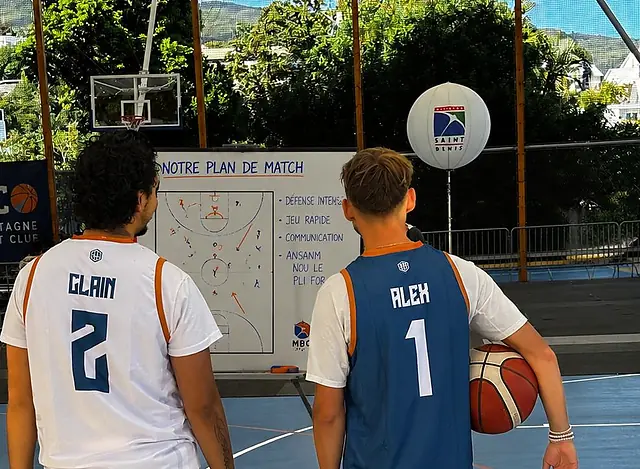
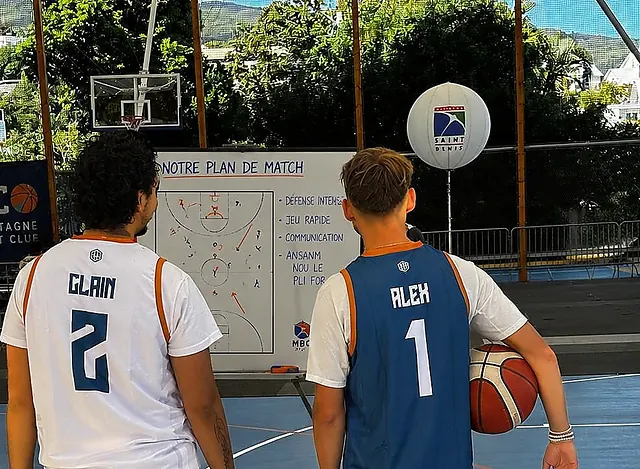
ert

diff --git a/style.css b/style.css
@@ -1803,13 +1803,18 @@ a:focus-visible,button:focus-visible,input:focus-visible,select:focus-visible,te
    ne soit pas agrandie sur les grands écrans. */
 .ess__photo{position:absolute;top:auto;right:0;bottom:0;margin:0;z-index:0;
   width:min(64%,900px);height:min(100%,820px);pointer-events:none;
-  -webkit-mask-image:linear-gradient(90deg,transparent 0%,rgba(0,0,0,.46) 1.5%,
-    rgba(0,0,0,.86) 4%,rgba(0,0,0,.97) 6.5%,#000 9%),
-    linear-gradient(180deg,transparent 0%,rgba(0,0,0,.55) 8%,#000 18%);
+  /* Fondu en courbe smoothstep, 13 paliers.
+     L'ancien fondu vertical n'avait que 3 paliers (0 -> .55 a 8% -> 1 a 18%) :
+     la pente changeait brutalement a 8%, et ce coude se lisait comme une
+     bande horizontale juste au-dessus du joueur de gauche. Une smoothstep
+     a pente nulle aux deux extremites n'a aucun coude, donc aucune bande.
+     Le fondu vertical est aussi allonge (18% -> 24%) et s'acheve avant les
+     cheveux du joueur, qui commencent a 28,7% du cadre. */
+  -webkit-mask-image:linear-gradient(90deg,transparent 0%,rgba(0,0,0,0.02) 0.83%,rgba(0,0,0,0.074) 1.67%,rgba(0,0,0,0.156) 2.5%,rgba(0,0,0,0.259) 3.33%,rgba(0,0,0,0.376) 4.17%,rgba(0,0,0,0.5) 5%,rgba(0,0,0,0.624) 5.83%,rgba(0,0,0,0.741) 6.67%,rgba(0,0,0,0.844) 7.5%,rgba(0,0,0,0.926) 8.33%,rgba(0,0,0,0.98) 9.17%,#000 10%),
+    linear-gradient(180deg,transparent 0%,rgba(0,0,0,0.02) 2%,rgba(0,0,0,0.074) 4%,rgba(0,0,0,0.156) 6%,rgba(0,0,0,0.259) 8%,rgba(0,0,0,0.376) 10%,rgba(0,0,0,0.5) 12%,rgba(0,0,0,0.624) 14%,rgba(0,0,0,0.741) 16%,rgba(0,0,0,0.844) 18%,rgba(0,0,0,0.926) 20%,rgba(0,0,0,0.98) 22%,#000 24%);
   -webkit-mask-composite:source-in;mask-composite:intersect;
-  mask-image:linear-gradient(90deg,transparent 0%,rgba(0,0,0,.46) 1.5%,
-    rgba(0,0,0,.86) 4%,rgba(0,0,0,.97) 6.5%,#000 9%),
-    linear-gradient(180deg,transparent 0%,rgba(0,0,0,.55) 8%,#000 18%)}
+  mask-image:linear-gradient(90deg,transparent 0%,rgba(0,0,0,0.02) 0.83%,rgba(0,0,0,0.074) 1.67%,rgba(0,0,0,0.156) 2.5%,rgba(0,0,0,0.259) 3.33%,rgba(0,0,0,0.376) 4.17%,rgba(0,0,0,0.5) 5%,rgba(0,0,0,0.624) 5.83%,rgba(0,0,0,0.741) 6.67%,rgba(0,0,0,0.844) 7.5%,rgba(0,0,0,0.926) 8.33%,rgba(0,0,0,0.98) 9.17%,#000 10%),
+    linear-gradient(180deg,transparent 0%,rgba(0,0,0,0.02) 2%,rgba(0,0,0,0.074) 4%,rgba(0,0,0,0.156) 6%,rgba(0,0,0,0.259) 8%,rgba(0,0,0,0.376) 10%,rgba(0,0,0,0.5) 12%,rgba(0,0,0,0.624) 14%,rgba(0,0,0,0.741) 16%,rgba(0,0,0,0.844) 18%,rgba(0,0,0,0.926) 20%,rgba(0,0,0,0.98) 22%,#000 24%)}
 .ess__photo img{width:100%;height:100%;object-fit:cover;
   object-position:40% 30%;filter:saturate(.96) contrast(1.02)}
 /* La photo s'efface vers le texte et sous les pieds. Pas de flou, pas de

diff --git a/index.html b/index.html
@@ -57,7 +57,7 @@
 <link rel="preload" as="image" href="assets/images/joueur-dribble-900.webp" type="image/webp" fetchpriority="high"
       imagesrcset="assets/images/joueur-dribble-640.webp 640w, assets/images/joueur-dribble-900.webp 900w, assets/images/joueur-dribble.webp 1280w"
       imagesizes="(max-width:900px) 104vw, 46vw">
-<link rel="stylesheet" href="style.css?v=e13c63d4">
+<link rel="stylesheet" href="style.css?v=9abc365c">
 <noscript><style>.reveal,.reveal--l,.reveal--r,.reveal--scale,.hero .reveal-fade{opacity:1!important;transform:none!important}</style></noscript>
 
 <script type="application/ld+json">
@@ -474,7 +474,7 @@
 <section class="section ess" id="essentiel" aria-labelledby="essentielTitle">
   <figure class="ess__photo">
     <img src="assets/images/mbc-duo-plan-de-match.webp"
-         srcset="assets/images/mbc-duo-plan-de-match-640.webp 640w, assets/images/mbc-duo-plan-de-match.webp 987w"
+         srcset="assets/images/mbc-duo-plan-de-match-640.webp 640w, assets/images/mbc-duo-plan-de-match.webp 987w, assets/images/mbc-duo-plan-de-match-1974.webp 1974w"
          sizes="(min-width:900px) 62vw, 100vw"
          alt="Deux joueurs du MBC de dos sur le plateau couvert, maillots floqués GLAIN 2 et ALEX 1, un ballon sous le bras, face au tableau « Notre plan de match » : défense intense, jeu rapide, communication, ansanm nou lé pli for."
          width="987" height="724" loading="lazy" decoding="async"

diff --git a/ecole-de-basket-saint-denis/index.html b/ecole-de-basket-saint-denis/index.html
@@ -39,7 +39,7 @@
 <link rel="preconnect" href="https://fonts.gstatic.com" crossorigin>
 <link rel="stylesheet" href="https://fonts.googleapis.com/css2?family=Anton&family=Barlow+Condensed:wght@500;600;700&family=Barlow:wght@400;600;700&display=swap" media="print" onload="this.media='all'">
 <noscript><link rel="stylesheet" href="https://fonts.googleapis.com/css2?family=Anton&family=Barlow+Condensed:wght@500;600;700&family=Barlow:wght@400;600;700&display=swap"></noscript>
-<link rel="stylesheet" href="/style.css?v=e13c63d4">
+<link rel="stylesheet" href="/style.css?v=9abc365c">
 
 <script type="application/ld+json">
 {"@context":"https://schema.org","@type":"WebPage","name":"École de basket à Saint-Denis (7-10 ans) — MBC La Montagne Basket Club","url":"https://mbc974.com/ecole-de-basket-saint-denis/","inLanguage":"fr","description":"L'école de basket du MBC pour les enfants de 7 à 10 ans à La Montagne, Saint-Denis de La Réunion : fondamentaux, créneau du samedi matin et inscription.","isPartOf":{"@type":"WebSite","@id":"https://mbc974.com/#website","name":"MBC La Montagne Basket Club","url":"https://mbc974.com/"},"about":{"@type":"SportsClub","@id":"https://mbc974.com/#club"}}

diff --git a/basket-adulte-loisirs-saint-denis/index.html b/basket-adulte-loisirs-saint-denis/index.html
@@ -35,7 +35,7 @@
 <link rel="preconnect" href="https://fonts.gstatic.com" crossorigin>
 <link rel="stylesheet" href="https://fonts.googleapis.com/css2?family=Anton&family=Barlow+Condensed:wght@500;600;700&family=Barlow:wght@400;600;700&display=swap" media="print" onload="this.media='all'">
 <noscript><link rel="stylesheet" href="https://fonts.googleapis.com/css2?family=Anton&family=Barlow+Condensed:wght@500;600;700&family=Barlow:wght@400;600;700&display=swap"></noscript>
-<link rel="stylesheet" href="/style.css?v=e13c63d4">
+<link rel="stylesheet" href="/style.css?v=9abc365c">
 <script type="application/ld+json">
 {"@context":"https://schema.org","@type":"WebPage","name":"Basket adulte et loisirs à Saint-Denis — MBC La Montagne Basket Club","url":"https://mbc974.com/basket-adulte-loisirs-saint-denis/","inLanguage":"fr","description":"Le basket pour les adultes à Saint-Denis de La Réunion : loisir sans championnat ou compétition seniors, au MBC La Montagne Basket Club.","isPartOf":{"@type":"WebSite","name":"MBC La Montagne Basket Club","url":"https://mbc974.com/"},"about":{"@type":"SportsClub","@id":"https://mbc974.com/#club"}}
 </script>

diff --git a/baby-basket-la-reunion/index.html b/baby-basket-la-reunion/index.html
@@ -39,7 +39,7 @@
 <link rel="preconnect" href="https://fonts.gstatic.com" crossorigin>
 <link rel="stylesheet" href="https://fonts.googleapis.com/css2?family=Anton&family=Barlow+Condensed:wght@500;600;700&family=Barlow:wght@400;600;700&display=swap" media="print" onload="this.media='all'">
 <noscript><link rel="stylesheet" href="https://fonts.googleapis.com/css2?family=Anton&family=Barlow+Condensed:wght@500;600;700&family=Barlow:wght@400;600;700&display=swap"></noscript>
-<link rel="stylesheet" href="/style.css?v=e13c63d4">
+<link rel="stylesheet" href="/style.css?v=9abc365c">
 
 <script type="application/ld+json">
 {"@context":"https://schema.org","@type":"WebPage","name":"Baby Basket à La Montagne / La Réunion — MBC La Montagne Basket Club","url":"https://mbc974.com/baby-basket-la-reunion/","inLanguage":"fr","description":"Le Baby Basket du MBC pour les enfants de 3 à 6 ans à La Montagne, Saint-Denis de La Réunion : éveil par le jeu, créneau et inscription.","isPartOf":{"@type":"WebSite","name":"MBC La Montagne Basket Club","url":"https://mbc974.com/"},"about":{"@type":"SportsClub","@id":"https://mbc974.com/#club"}}

diff --git a/basket-enfant-saint-denis/index.html b/basket-enfant-saint-denis/index.html
@@ -39,7 +39,7 @@
 <link rel="preconnect" href="https://fonts.gstatic.com" crossorigin>
 <link rel="stylesheet" href="https://fonts.googleapis.com/css2?family=Anton&family=Barlow+Condensed:wght@500;600;700&family=Barlow:wght@400;600;700&display=swap" media="print" onload="this.media='all'">
 <noscript><link rel="stylesheet" href="https://fonts.googleapis.com/css2?family=Anton&family=Barlow+Condensed:wght@500;600;700&family=Barlow:wght@400;600;700&display=swap"></noscript>
-<link rel="stylesheet" href="/style.css?v=e13c63d4">
+<link rel="stylesheet" href="/style.css?v=9abc365c">
 
 <script type="application/ld+json">
 {"@context":"https://schema.org","@type":"WebPage","name":"Basket enfant à Saint-Denis (La Réunion) — MBC La Montagne Basket Club","url":"https://mbc974.com/basket-enfant-saint-denis/","inLanguage":"fr","description":"Le basket pour les enfants à Saint-Denis : âges, déroulé des séances, encadrement et inscription au MBC La Montagne Basket Club.","isPartOf":{"@type":"WebSite","name":"MBC La Montagne Basket Club","url":"https://mbc974.com/"},"about":{"@type":"SportsClub","@id":"https://mbc974.com/#club"}}

diff --git a/club-basket-la-montagne/index.html b/club-basket-la-montagne/index.html
@@ -39,7 +39,7 @@
 <link rel="preconnect" href="https://fonts.gstatic.com" crossorigin>
 <link rel="stylesheet" href="https://fonts.googleapis.com/css2?family=Anton&family=Barlow+Condensed:wght@500;600;700&family=Barlow:wght@400;600;700&display=swap" media="print" onload="this.media='all'">
 <noscript><link rel="stylesheet" href="https://fonts.googleapis.com/css2?family=Anton&family=Barlow+Condensed:wght@500;600;700&family=Barlow:wght@400;600;700&display=swap"></noscript>
-<link rel="stylesheet" href="/style.css?v=e13c63d4">
+<link rel="stylesheet" href="/style.css?v=9abc365c">
 
 <script type="application/ld+json">
 {"@context":"https://schema.org","@type":"WebPage","name":"Club de basket à La Montagne — MBC La Montagne Basket Club","url":"https://mbc974.com/club-basket-la-montagne/","inLanguage":"fr","description":"Présentation du club de basket de La Montagne, à Saint-Denis de La Réunion : catégories, créneaux, lieux et inscriptions 2026/2027.","isPartOf":{"@type":"WebSite","name":"MBC La Montagne Basket Club","url":"https://mbc974.com/"},"about":{"@type":"SportsClub","@id":"https://mbc974.com/#club"}}

diff --git a/sponsor-club-basket-reunion/index.html b/sponsor-club-basket-reunion/index.html
@@ -39,7 +39,7 @@
 <link rel="preconnect" href="https://fonts.gstatic.com" crossorigin>
 <link rel="stylesheet" href="https://fonts.googleapis.com/css2?family=Anton&family=Barlow+Condensed:wght@500;600;700&family=Barlow:wght@400;600;700&display=swap" media="print" onload="this.media='all'">
 <noscript><link rel="stylesheet" href="https://fonts.googleapis.com/css2?family=Anton&family=Barlow+Condensed:wght@500;600;700&family=Barlow:wght@400;600;700&display=swap"></noscript>
-<link rel="stylesheet" href="/style.css?v=e13c63d4">
+<link rel="stylesheet" href="/style.css?v=9abc365c">
 
 <script type="application/ld+json">
 {"@context":"https://schema.org","@type":"WebPage","name":"Sponsor d'un club de basket à La Réunion — MBC La Montagne Basket Club","url":"https://mbc974.com/sponsor-club-basket-reunion/","inLanguage":"fr","description":"Devenir sponsor ou partenaire du MBC La Montagne Basket Club à La Réunion : visibilité, formules et contact.","isPartOf":{"@type":"WebSite","name":"MBC La Montagne Basket Club","url":"https://mbc974.com/"},"about":{"@type":"SportsClub","@id":"https://mbc974.com/#club"}}

diff --git a/soutenir-le-club/index.html b/soutenir-le-club/index.html
@@ -35,7 +35,7 @@
 <link rel="preconnect" href="https://fonts.gstatic.com" crossorigin>
 <link rel="stylesheet" href="https://fonts.googleapis.com/css2?family=Anton&family=Barlow+Condensed:wght@500;600;700&family=Barlow:wght@400;600;700&display=swap" media="print" onload="this.media='all'">
 <noscript><link rel="stylesheet" href="https://fonts.googleapis.com/css2?family=Anton&family=Barlow+Condensed:wght@500;600;700&family=Barlow:wght@400;600;700&display=swap"></noscript>
-<link rel="stylesheet" href="/style.css?v=e13c63d4">
+<link rel="stylesheet" href="/style.css?v=9abc365c">
 <script type="application/ld+json">
 {"@context":"https://schema.org","@type":"WebPage","name":"Soutenir le MBC La Montagne Basket Club","url":"https://mbc974.com/soutenir-le-club/","inLanguage":"fr","description":"Faire un don au club de basket de La Montagne, à Saint-Denis de La Réunion : ce que finance votre soutien et comment donner.","isPartOf":{"@type":"WebSite","name":"MBC La Montagne Basket Club","url":"https://mbc974.com/"},"about":{"@type":"SportsClub","@id":"https://mbc974.com/#club"}}
 </script>

diff --git a/benevoles/index.html b/benevoles/index.html
@@ -35,7 +35,7 @@
 <link rel="preconnect" href="https://fonts.gstatic.com" crossorigin>
 <link rel="stylesheet" href="https://fonts.googleapis.com/css2?family=Anton&family=Barlow+Condensed:wght@500;600;700&family=Barlow:wght@400;600;700&display=swap" media="print" onload="this.media='all'">
 <noscript><link rel="stylesheet" href="https://fonts.googleapis.com/css2?family=Anton&family=Barlow+Condensed:wght@500;600;700&family=Barlow:wght@400;600;700&display=swap"></noscript>
-<link rel="stylesheet" href="/style.css?v=e13c63d4">
+<link rel="stylesheet" href="/style.css?v=9abc365c">
 <script type="application/ld+json">
 {"@context":"https://schema.org","@type":"WebPage","name":"Devenir bénévole au MBC La Montagne Basket Club","url":"https://mbc974.com/benevoles/","inLanguage":"fr","description":"Missions bénévoles et service civique au club de basket de La Montagne, à Saint-Denis de La Réunion.","isPartOf":{"@type":"WebSite","name":"MBC La Montagne Basket Club","url":"https://mbc974.com/"},"about":{"@type":"SportsClub","@id":"https://mbc974.com/#club"}}
 </script>

diff --git a/adhesion.html b/adhesion.html
@@ -47,7 +47,7 @@
 <noscript><link rel="stylesheet" href="https://fonts.googleapis.com/css2?family=Anton&family=Barlow+Condensed:wght@500;600;700&family=Barlow:wght@400;600;700&display=swap"></noscript>
 
 <link rel="preload" as="image" href="assets/logos/mbc-logo.webp" type="image/webp" fetchpriority="high">
-<link rel="stylesheet" href="style.css?v=e13c63d4">
+<link rel="stylesheet" href="style.css?v=9abc365c">
 <noscript><style>.reveal,.reveal--l,.reveal--r,.reveal--scale{opacity:1!important;transform:none!important;filter:none!important}</style></noscript>
 
 <script type="application/ld+json">

diff --git a/sw.js b/sw.js
@@ -5,7 +5,7 @@
    ⚠  Bump le nom du cache (mbc-vN) à chaque déploiement
        important pour purger l'ancien contenu.
    ============================================================ */
-const CACHE = 'mbc-e13c63d4-6f934943';
+const CACHE = 'mbc-9abc365c-6f934943';
 const OFFLINE_URL = '/offline.html';
 const PRECACHE = [
   '/',
@@ -13,7 +13,7 @@ const PRECACHE = [
   '/adhesion.html',
   '/offline.html',
   '/site.webmanifest',
-  '/style.css?v=e13c63d4',
+  '/style.css?v=9abc365c',
   '/script.js?v=6f934943',
   '/assets/logos/mbc-logo.webp',
   '/assets/icons/favicon.png',
